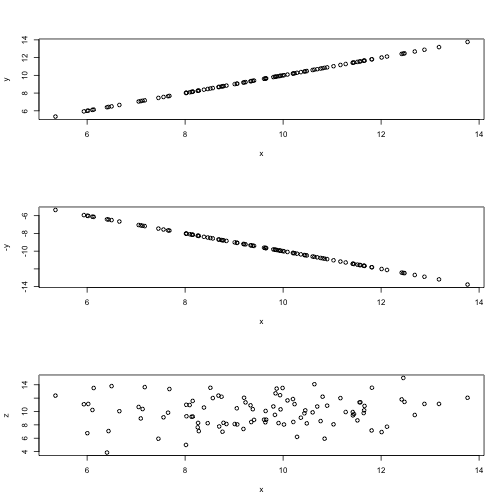
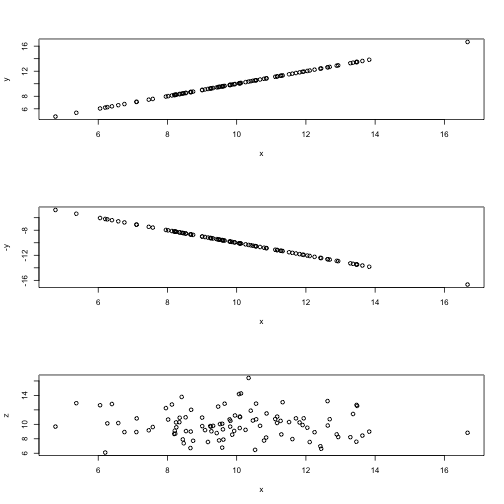
Date changes

diff --git a/r_course/introToR_Session1.md b/r_course/introToR_Session1.md
@@ -2108,14 +2108,14 @@ A standard format for this data is a table
 
 |Gene_Name | Sample_1.hi| Sample_2.hi| Sample_3.hi| Sample_4.low| Sample_5.low| Sample_1.low|
 |:---------|-----------:|-----------:|-----------:|------------:|------------:|------------:|
-|Gene_a    |    4.340690|    4.203785|    4.256108|     5.421509|     5.467605|     5.485821|
-|Gene_b    |    4.645798|    4.441357|    5.271473|     4.311713|     3.398686|     3.126889|
-|Gene_c    |    2.901837|    4.825576|    4.056198|     3.785937|     2.097925|     4.320227|
-|Gene_d    |    4.636917|    3.786635|    4.905311|     7.325765|     8.218834|     8.668037|
-|Gene_e    |   10.694297|    9.634660|   10.812926|     3.853591|     2.156596|     2.352888|
-|Gene_f    |    9.819140|    9.438598|    9.584720|     4.087682|     3.742932|     1.727330|
-|Gene_g    |    8.703859|   11.465872|   10.337639|    12.885206|    10.257471|    11.870980|
-|Gene_h    |    8.033267|    8.979023|    8.609557|     8.872436|     9.462139|     9.568839|
+|Gene_a    |    3.746200|    3.941653|    3.794862|     3.633208|     3.713848|     2.292254|
+|Gene_b    |    3.175298|    5.248515|    4.758635|     3.849890|     3.503243|     4.728451|
+|Gene_c    |    3.048066|    4.183989|    3.846025|     3.444151|     4.262323|     5.213423|
+|Gene_d    |    2.111448|    5.074579|    2.854247|     8.214177|     7.638293|     9.512675|
+|Gene_e    |    8.590801|   10.667181|    9.839471|     2.374277|     3.007807|     4.503819|
+|Gene_f    |   10.574687|    8.534240|   10.774365|     2.786425|     2.225497|     1.908591|
+|Gene_g    |    9.335065|    9.503781|   10.730394|     8.714237|     9.338326|     8.916753|
+|Gene_h    |   10.760913|   11.993786|    9.847345|    12.268990|     9.031520|    10.040574|
 
 Data IO (2/7) - Data from text file with read.table()
 =========================================================
@@ -2431,7 +2431,7 @@ cor(x,z)
 ```
 
 ```
-[1] 0.09841603
+[1] -0.0744949
 ```
 ***
 ![plot of chunk unnamed-chunk-109](introToR_Session1-figure/unnamed-chunk-109-1.png)
@@ -2445,8 +2445,8 @@ Often we wish to apply correlation analysis to all columns or rows in a matrix i
 
 | Sample_1.hi| Sample_2.hi| Sample_3.hi| Sample_4.low| Sample_5.low| Sample_1.low|
 |-----------:|-----------:|-----------:|------------:|------------:|------------:|
-|    4.340690|    4.203785|    4.256108|     5.421509|     5.467605|     5.485821|
-|    4.645798|    4.441357|    5.271473|     4.311713|     3.398686|     3.126889|
+|    3.746200|    3.941653|    3.794862|     3.633208|     3.713848|     2.292254|
+|    3.175298|    5.248515|    4.758635|     3.849890|     3.503243|     4.728451|
 
 
 ```r
@@ -2455,8 +2455,8 @@ cor(minRep)[1:2,2:5]
 
 ```
             Sample_2.hi Sample_3.hi Sample_4.low Sample_5.low
-Sample_1.hi   0.8967293   0.9762708    0.2047461    0.1136924
-Sample_2.hi   1.0000000   0.9600052    0.4660060    0.2830024
+Sample_1.hi   0.9112755   0.9752387    0.2800140    0.1841944
+Sample_2.hi   1.0000000   0.9017547    0.4378759    0.3467012
 ```
 
 Statistics (9/26) - Visualising correlation
@@ -2505,8 +2505,8 @@ rnorm(10,mean=8,sd=3)
 ```
 
 ```
- [1]  9.098933  6.240250 12.791548  7.373040  8.266100  7.992674  9.166330
- [8]  4.787169  3.591570 10.620144
+ [1] 7.774776 9.651483 6.526969 5.031855 8.829963 4.699238 9.295709
+ [8] 6.987415 8.046085 3.990670
 ```
 We can also use these functions to interrogate values assuming a normal distribution for the data.
 
